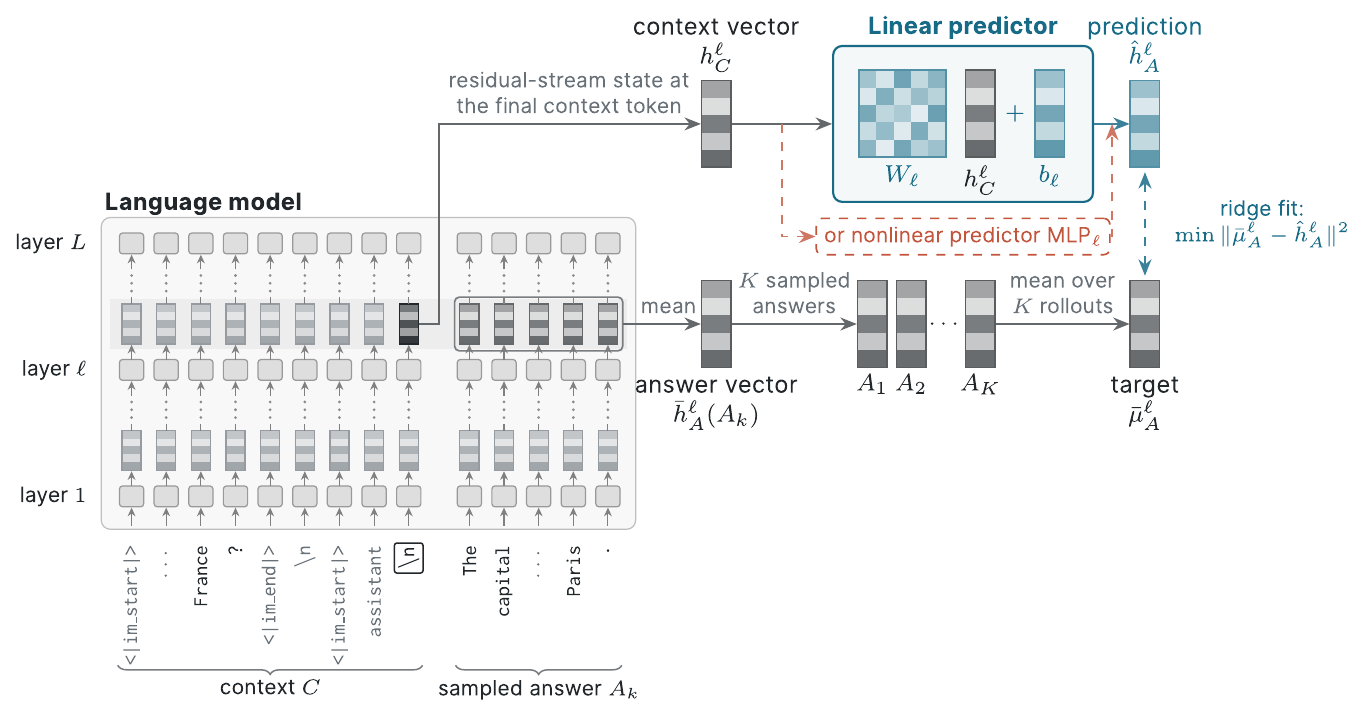
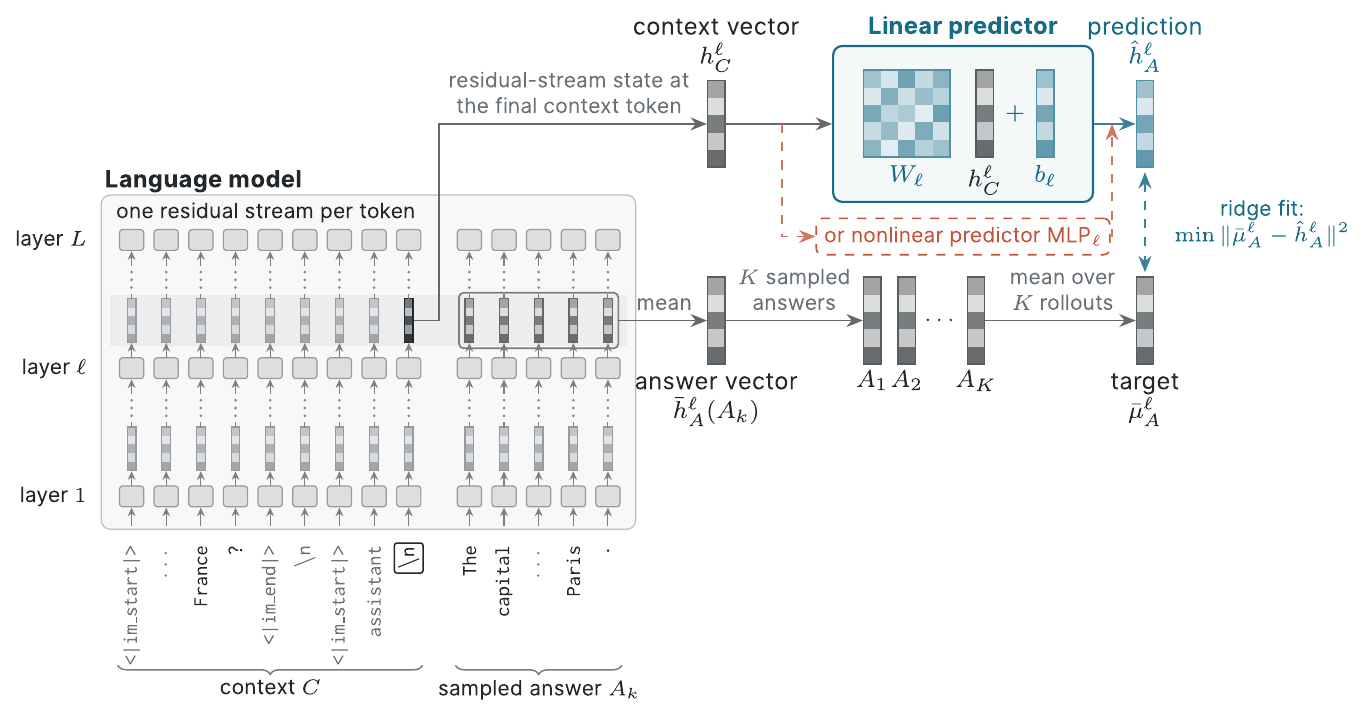
paper Figure 1 rev 8: square vector cells, residual stream named inside the model box (Thomas 2026-09-03)
Generated with [Claude Code](https://claude.ai/code)
via [Happy](https://happy.engineering)

diff --git a/docs/paper_context_answer_map/fig1_schematic.tex b/docs/paper_context_answer_map/fig1_schematic.tex
@@ -1,4 +1,4 @@
-% Figure 1: context-to-answer prediction pipeline (rev 7, 2026-09-03).
+% Figure 1: context-to-answer prediction pipeline (rev 8, 2026-09-03).
 % Compile standalone: pdflatex fig1_schematic.tex
 % THEN convert text to outlines before copying to Overleaf (REQUIRED):
 %   gs -q -dNOPAUSE -dBATCH -sDEVICE=pdfwrite -dNoOutputFonts -dCompatibilityLevel=1.5 \
@@ -33,25 +33,25 @@
 \definecolor{terra}{HTML}{C4553D}
 \definecolor{paper}{HTML}{FFFFFF}
 
-% ---- big column vector: 5 contiguous cells, 0.34 x 1.00 cm -------------------------
+% ---- big column vector: 5 contiguous SQUARE cells, 0.20 x 1.00 cm -------------------
 % \colvec{<node name>}{<x>}{<y>}{<color>}
 \newcommand{\colvec}[4]{%
   \begin{scope}[shift={(#2,#3)}]
     \foreach \r/\s in {0/42,1/16,2/60,3/26,4/68} {
-      \fill[#4!\s] (-0.17,{0.50-(\r+1)*0.20}) rectangle (0.17,{0.50-\r*0.20});
+      \fill[#4!\s] (-0.10,{0.50-(\r+1)*0.20}) rectangle (0.10,{0.50-\r*0.20});
     }
-    \draw[#4!75, line width=0.5pt] (-0.17,-0.50) rectangle (0.17,0.50);
+    \draw[#4!75, line width=0.5pt] (-0.10,-0.50) rectangle (0.10,0.50);
   \end{scope}
-  \node[inner sep=0pt, minimum width=0.34cm, minimum height=1.0cm] (#1) at (#2,#3) {};
+  \node[inner sep=0pt, minimum width=0.20cm, minimum height=1.0cm] (#1) at (#2,#3) {};
 }
-% ---- small residual-stream vector inside the model: 5 cells, 0.22 x 0.46 cm --------
+% ---- small residual-stream vector inside the model: 5 SQUARE cells, 0.10 x 0.50 cm --
 % \minivec{<x>}{<y>}{<color>}{<shade list>}{<outline>}
 \newcommand{\minivec}[5]{%
   \begin{scope}[shift={(#1,#2)}]
     \foreach \s [count=\r from 0] in {#4} {
-      \fill[#3!\s] (-0.11,{0.23-(\r+1)*0.092}) rectangle (0.11,{0.23-\r*0.092});
+      \fill[#3!\s] (-0.05,{0.25-(\r+1)*0.10}) rectangle (0.05,{0.25-\r*0.10});
     }
-    \draw[#5, line width=0.4pt] (-0.11,-0.23) rectangle (0.11,0.23);
+    \draw[#5, line width=0.4pt] (-0.05,-0.25) rectangle (0.05,0.25);
   \end{scope}
 }
 % ---- matrix glyph: 5x5 contiguous cells, 1.00 x 1.00 cm ---------------------------
@@ -75,17 +75,17 @@
   \draw[mini] (#1,0.66) -- (#1,0.87);
   \node[blk] at (#1,1.00) {};
   \draw[mini] (#1,1.12) -- (#1,1.29);
-  \minivec{#1}{1.53}{muted}{40,18,54,26,62}{muted!70}
-  \draw[black!50, line width=0.35pt] (#1,1.76) -- (#1,1.84);
-  \fill[black!45] (#1,1.91) circle (0.5pt) (#1,2.00) circle (0.5pt) (#1,2.09) circle (0.5pt);
-  \draw[mini] (#1,2.16) -- (#1,2.33);
-  \node[blk] at (#1,2.46) {};
-  \draw[mini] (#1,2.58) -- (#1,2.75);
-  \minivec{#1}{2.99}{#4}{#5}{#6}
-  \draw[black!50, line width=0.35pt] (#1,3.22) -- (#1,3.30);
-  \fill[black!45] (#1,3.37) circle (0.5pt) (#1,3.46) circle (0.5pt) (#1,3.55) circle (0.5pt);
-  \draw[mini] (#1,3.62) -- (#1,3.79);
-  \node[blk] at (#1,3.92) {};
+  \minivec{#1}{1.55}{muted}{40,18,54,26,62}{muted!70}
+  \draw[black!50, line width=0.35pt] (#1,1.80) -- (#1,1.86);
+  \fill[black!45] (#1,1.93) circle (0.5pt) (#1,2.02) circle (0.5pt) (#1,2.11) circle (0.5pt);
+  \draw[mini] (#1,2.18) -- (#1,2.35);
+  \node[blk] at (#1,2.48) {};
+  \draw[mini] (#1,2.60) -- (#1,2.77);
+  \minivec{#1}{3.03}{#4}{#5}{#6}
+  \draw[black!50, line width=0.35pt] (#1,3.28) -- (#1,3.34);
+  \fill[black!45] (#1,3.41) circle (0.5pt) (#1,3.50) circle (0.5pt) (#1,3.59) circle (0.5pt);
+  \draw[mini] (#1,3.66) -- (#1,3.83);
+  \node[blk] at (#1,3.96) {};
 }
 
 \begin{document}
@@ -109,14 +109,15 @@
 % ===========================================================================
 % Left: the language model, one residual stream per token column.
 % Context columns i = 0..8 at x = 0.80 + 0.40 i; answer columns j = 0..4 at x = 4.70 + 0.40 j.
-% Rows: block 1 at y = 1.00, vector 1.53, block l 2.46, vector 2.99, block L 3.92.
+% Rows: block 1 at y = 1.00, vector 1.55, block l 2.48, vector 3.03, block L 3.96.
 % ===========================================================================
-\draw[fill=black!3, draw=black!25, rounded corners=3pt] (0.45,0.62) rectangle (6.62,4.22);
-\node[lbl, anchor=west, font=\fontsize{8}{9.5}\selectfont\bfseries] at (0.45,4.38) {Language model};
-\fill[black!7] (0.55,2.70) rectangle (6.52,3.28);   % band: the layer-l residual-stream states
+\draw[fill=black!3, draw=black!25, rounded corners=3pt] (0.45,0.62) rectangle (6.62,4.48);
+\node[lbl, anchor=west, font=\fontsize{8}{9.5}\selectfont\bfseries] at (0.45,4.64) {Language model};
+\node[ann, anchor=west, text=ink] at (0.58,4.28) {one residual stream per token};
+\fill[black!7] (0.55,2.74) rectangle (6.52,3.32);   % band: the layer-l residual-stream states
 
-\node[ann, anchor=east, text=ink] at (0.32,3.92) {layer $L$};
-\node[ann, anchor=east, text=ink] at (0.32,2.46) {layer $\ell$};
+\node[ann, anchor=east, text=ink] at (0.32,3.96) {layer $L$};
+\node[ann, anchor=east, text=ink] at (0.32,2.48) {layer $\ell$};
 \node[ann, anchor=east, text=ink] at (0.32,1.00) {layer $1$};
 
 % context columns (first template token, an elision, then the exact tail of the prompt)
@@ -132,7 +133,7 @@
 \stream{4.00}{tokink}{\textbackslash n}{ink}{62,30,80,44,92}{ink}
 \node[tokink, draw=ink, line width=0.5pt, rounded corners=0.8pt, inner sep=1.2pt, fill=paper]
   at (4.00,0.47) {\textbackslash n};
-\node[inner sep=0pt, minimum width=0.22cm, minimum height=0.46cm] (hfinal) at (4.00,2.99) {};
+\node[inner sep=0pt, minimum width=0.10cm, minimum height=0.50cm] (hfinal) at (4.00,3.03) {};
 % answer columns (the sampled answer's tokens, elided in the middle)
 \stream{4.70}{tokink}{The}{ink}{42,16,60,26,68}{ink!70}
 \stream{5.10}{tokink}{capital}{ink}{42,16,60,26,68}{ink!70}
@@ -140,7 +141,7 @@
 \stream{5.90}{tokink}{Paris}{ink}{42,16,60,26,68}{ink!70}
 \stream{6.30}{tokink}{.}{ink}{42,16,60,26,68}{ink!70}
 % group of answer-token vectors at layer l
-\draw[ink!60, line width=0.55pt, rounded corners=1.5pt] (4.53,2.68) rectangle (6.47,3.30);
+\draw[ink!60, line width=0.55pt, rounded corners=1.5pt] (4.58,2.71) rectangle (6.42,3.35);
 
 % braces under the tokens
 \draw[decorate, decoration={brace, mirror, amplitude=3pt}, ink!60, line width=0.5pt]
@@ -154,13 +155,13 @@
 % ===========================================================================
 \colvec{hc}{7.55}{5.30}{ink}
 \node[lbl, anchor=south, align=center] at (7.55,5.86) {context vector\\$h_C^{\ell}$};
-\draw[flow] (hfinal.east) -- (4.35,2.99) -- (4.35,5.30) -- (hc.west);
+\draw[flow] (hfinal.east) -- (4.35,3.03) -- (4.35,5.30) -- (hc.west);
 \node[ann, anchor=south] at (5.85,5.38) {residual-stream state at\\the final context token};
 
-\colvec{ha}{7.55}{2.99}{ink}
-\node[lbl, anchor=north, align=center] at (7.55,2.43) {answer vector\\$\bar h_A^{\ell}(A_k)$};
-\draw[flow] (6.47,2.99) -- (ha.west);
-\node[ann, anchor=south] at (7.00,3.07) {mean};
+\colvec{ha}{7.55}{3.03}{ink}
+\node[lbl, anchor=north, align=center] at (7.55,2.47) {answer vector\\$\bar h_A^{\ell}(A_k)$};
+\draw[flow] (6.42,3.03) -- (ha.west);
+\node[ann, anchor=south] at (6.95,3.11) {mean};
 
 % ===========================================================================
 % Right: the predictor (top) and the prediction target (bottom).
@@ -169,13 +170,13 @@
       minimum width=3.0cm, minimum height=1.8cm, inner sep=0pt] (ridge) at (10.40,5.30) {};
 \node[lbl, text=teal, anchor=south, font=\fontsize{8}{9.5}\selectfont\bfseries]
   at (10.40,6.24) {Linear predictor};
-\matgrid{W}{9.70}{5.42}{teal}
-\node[lbl, text=teal, anchor=north, inner sep=0.5pt] at (9.70,4.85) {$W_\ell$};
-\colvec{hcol}{10.60}{5.42}{ink}
-\node[lbl, anchor=north, inner sep=0.5pt] at (10.60,4.85) {$h_C^{\ell}$};
+\matgrid{W}{9.75}{5.42}{teal}
+\node[lbl, text=teal, anchor=north, inner sep=0.5pt] at (9.75,4.85) {$W_\ell$};
+\colvec{hcol}{10.65}{5.42}{ink}
+\node[lbl, anchor=north, inner sep=0.5pt] at (10.65,4.85) {$h_C^{\ell}$};
 \node[lbl, text=teal, inner sep=0pt] at (11.00,5.42) {$+$};
-\colvec{bcol}{11.40}{5.42}{teal}
-\node[lbl, text=teal, anchor=north, inner sep=0.5pt] at (11.40,4.85) {$b_\ell$};
+\colvec{bcol}{11.35}{5.42}{teal}
+\node[lbl, text=teal, anchor=north, inner sep=0.5pt] at (11.35,4.85) {$b_\ell$};
 \draw[flow] (hc.east) -- (ridge.west);
 \colvec{hhat}{12.50}{5.30}{teal}
 \node[lbl, text=teal, anchor=south, align=center] at (12.50,5.86) {prediction\\$\hat h_A^{\ell}$};
@@ -189,19 +190,19 @@
 \draw[bypass] (mlp.east) -- (12.12,4.00) -- (12.12,5.30);
 
 % prediction target: mean over the answer vectors of K sampled answers
-\colvec{a1}{9.35}{2.99}{ink}
-\colvec{a2}{9.80}{2.99}{ink}
-\node[lbl, inner sep=0pt] at (10.20,2.99) {$\cdots$};
-\colvec{aK}{10.60}{2.99}{ink}
-\node[lbl, anchor=north, inner sep=0.5pt] at (9.35,2.44) {$A_1$};
-\node[lbl, anchor=north, inner sep=0.5pt] at (9.80,2.44) {$A_2$};
-\node[lbl, anchor=north, inner sep=0.5pt] at (10.60,2.44) {$A_K$};
+\colvec{a1}{9.35}{3.03}{ink}
+\colvec{a2}{9.75}{3.03}{ink}
+\node[lbl, inner sep=0pt] at (10.15,3.03) {$\cdots$};
+\colvec{aK}{10.55}{3.03}{ink}
+\node[lbl, anchor=north, inner sep=0.5pt] at (9.35,2.48) {$A_1$};
+\node[lbl, anchor=north, inner sep=0.5pt] at (9.75,2.48) {$A_2$};
+\node[lbl, anchor=north, inner sep=0.5pt] at (10.55,2.48) {$A_K$};
 \draw[flow] (ha.east) -- (a1.west);
-\node[ann, anchor=south] at (8.45,3.07) {$K$ sampled\\answers};
-\colvec{mu}{12.50}{2.99}{ink}
-\node[lbl, anchor=north, align=center] at (12.50,2.43) {target\\$\bar\mu_A^{\ell}$};
+\node[ann, anchor=south] at (8.45,3.11) {$K$ sampled\\answers};
+\colvec{mu}{12.50}{3.03}{ink}
+\node[lbl, anchor=north, align=center] at (12.50,2.47) {target\\$\bar\mu_A^{\ell}$};
 \draw[flow] (aK.east) -- (mu.west);
-\node[ann, anchor=south] at (11.55,3.07) {mean over\\$K$ rollouts};
+\node[ann, anchor=south] at (11.55,3.11) {mean over\\$K$ rollouts};
 
 % fit: prediction against target
 \draw[<->, line width=0.6pt, teal!85, dashed] ($(hhat.south)+(0,-0.05)$) -- ($(mu.north)+(0,0.05)$);
